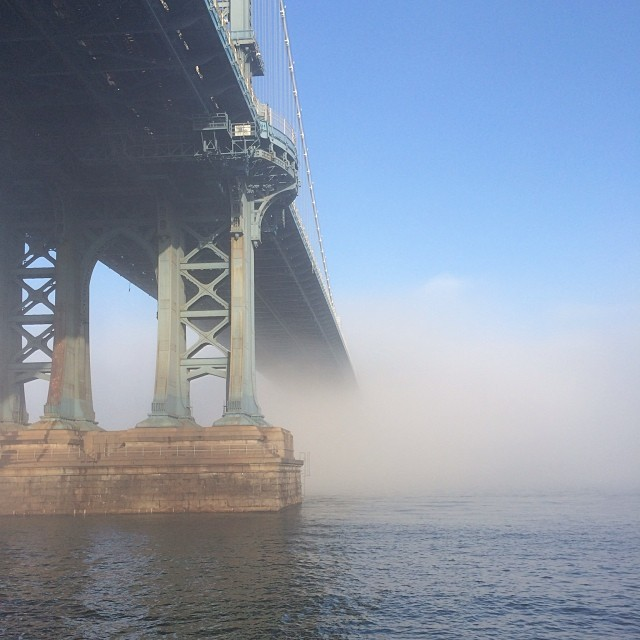
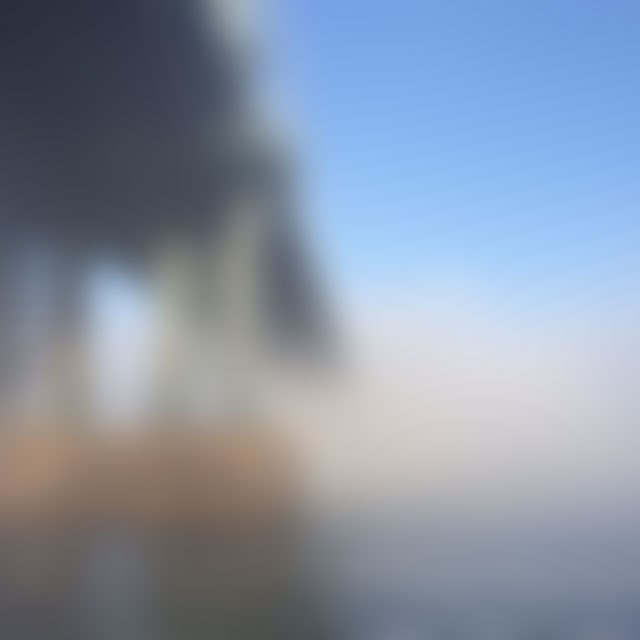
lowering image resolutions

diff --git a/css/main.css b/css/main.css
@@ -1,1 +1,1 @@
-article ,aside ,details ,figcaption ,figure ,footer ,header ,hgroup ,main ,nav ,section ,summary {display:block;}audio ,canvas ,video {display:inline-block;*display:inline;*zoom:1;}audio:not([controls]) {display:none;height:0;}[hidden] {display:none;}html {font-size:100%;-ms-text-size-adjust:100%;-webkit-text-size-adjust:100%;}html ,button ,input ,select ,textarea {font-family:sans-serif;}body {margin:0;}a:focus {outline:thin dotted;}a:active ,a:hover {outline:0;}h1 {font-size:2em;margin:0.67em 0;}h2 {font-size:1.5em;margin:0.83em 0;}h3 {font-size:1.17em;margin:1em 0;}h4 {font-size:1em;margin:1.33em 0;}h5 {font-size:0.83em;margin:1.67em 0;}h6 {font-size:0.67em;margin:2.33em 0;}abbr[title] {border-bottom:1px dotted;}b ,strong {font-weight:bold;}blockquote {margin:1em 40px;}dfn {font-style:italic;}hr {-moz-box-sizing:content-box;box-sizing:content-box;height:0;}mark {background:#ffff00;color:#000000;}p ,pre {margin:1em 0;}code ,kbd ,pre ,samp {font-family:monospace,serif;_font-family:'courier new',monospace;font-size:1em;}pre {white-space:pre;white-space:pre-wrap;word-wrap:break-word;}q {quotes:none;}q:before ,q:after {content:'';content:none;}small {font-size:80%;}sub ,sup {font-size:75%;line-height:0;position:relative;vertical-align:baseline;}sup {top:-0.5em;}sub {bottom:-0.25em;}dl ,menu ,ol ,ul {margin:1em 0;}dd {margin:0 0 0 40px;}menu ,ol ,ul {padding:0 0 0 40px;}nav ul ,nav ol {list-style:none;list-style-image:none;}img {border:0;-ms-interpolation-mode:bicubic;}svg:not(:root) {overflow:hidden;}figure {margin:0;}form {margin:0;}fieldset {border:1px solid #c0c0c0;margin:0 2px;padding:0.35em 0.625em 0.75em;}legend {border:0;padding:0;white-space:normal;*margin-left:-7px;}button ,input ,select ,textarea {font-size:100%;margin:0;vertical-align:baseline;*vertical-align:middle;}button ,input {line-height:normal;}button ,select {text-transform:none;}button ,html input[type="button"] ,input[type="reset"] ,input[type="submit"] {-webkit-appearance:button;cursor:pointer;*overflow:visible;}button[disabled] ,html input[disabled] {cursor:default;}input[type="checkbox"] ,input[type="radio"] {box-sizing:border-box;padding:0;*height:13px;*width:13px;}input[type="search"] {-webkit-appearance:textfield;-moz-box-sizing:content-box;-webkit-box-sizing:content-box;box-sizing:content-box;}input[type="search"]::-webkit-search-cancel-button ,input[type="search"]::-webkit-search-decoration {-webkit-appearance:none;}button::-moz-focus-inner ,input::-moz-focus-inner {border:0;padding:0;}textarea {overflow:auto;vertical-align:top;}table {border-collapse:collapse;border-spacing:0;}body {text-rendering:optimizespeed;font-family:"HelveticaNeue-UltraLight","Helvetica Neue UltraLight","Helvetica Neue",Helvetica,Arial,"Lucida Grande",sans-serif;}@font-face{font-family:"sams-fonts";src:url("../fonts/sams-fonts.eot");src:url("../fonts/sams-fonts.eot?#iefix") format("embedded-opentype"),url("../fonts/sams-fonts.woff") format("woff"),url("../fonts/sams-fonts.ttf") format("truetype"),url("../fonts/sams-fonts.svg#sams-fonts") format("svg");font-weight:normal;font-style:normal;}[data-icon]:before {font-family:"sams-fonts" !important;content:attr(data-icon);font-style:normal !important;font-weight:normal !important;font-variant:normal !important;text-transform:none !important;speak:none;line-height:1;-webkit-font-smoothing:antialiased;-moz-osx-font-smoothing:grayscale;}[class^="icon-"]:before ,[class*=" icon-"]:before {font-family:"sams-fonts" !important;font-style:normal !important;font-weight:normal !important;font-variant:normal !important;text-transform:none !important;speak:none;line-height:1;-webkit-font-smoothing:antialiased;-moz-osx-font-smoothing:grayscale;}.icon-social-rdio:before {content:"a";}.icon-soundcloud-1:before {content:"c";}.icon-social-path:before {content:"b";}.icon-social-facebook:before {content:"d";}.icon-lastfm:before {content:"f";}.icon-instagram:before {content:"g";}.icon-fontawesome-webfont:before {content:"i";}.icon-social-linkedin:before {content:"e";}.icon-chancetstorms:before {content:"j";}.icon-chanceflurries:before {content:"j";}.icon-chancerain:before {content:"k";}.icon-chancesleet:before {content:"l";}.icon-chancesnow:before {content:"m";}.icon-fog:before {content:"n";}.icon-hazy:before {content:"o";}.icon-tstorms:before {content:"B";}.icon-github:before {content:"h";}.icon-chanceeclipse:before {content:"j";}.icon-chanceflurries:before {content:"k";}.icon-chancerain:before {content:"l";}.icon-chancesleet:before {content:"m";}.icon-chancesnow:before {content:"n";}.icon-chancestorms:before {content:"o";}.icon-clear:before {content:"p";}.icon-cloudy:before {content:"q";}.icon-flurries:before {content:"r";}.icon-hazy:before {content:"s";}.icon-mostlycloudy:before {content:"t";}.icon-partlycloudy:before {content:"u";}.icon-partlysunny:before {content:"v";}.icon-snow:before {content:"w";}.icon-sunny:before {content:"x";}.icon-tstorms:before {content:"y";}.icon-wind:before {content:"z";}.icon-chanceeclipse:before {content:"j";}.icon-chanceflurries:before {content:"k";}.icon-chancerain:before {content:"l";}.icon-chancesleet:before {content:"m";}.icon-chancesnow:before {content:"n";}.icon-chancestorms:before {content:"o";}.icon-clear:before {content:"p";}.icon-cloudy:before {content:"q";}.icon-flurries:before {content:"r";}.icon-hazy:before {content:"s";}.icon-mostlycloudy:before {content:"t";}.icon-partlycloudy:before {content:"u";}.icon-partlysunny:before {content:"v";}.icon-snow:before {content:"w";}.icon-sunny:before {content:"x";}.icon-tstorms:before {content:"y";}.icon-wind:before {content:"z";}.icon-facebook:before {content:"A";}.icon-github-1:before {content:"B";}.icon-instagram-1:before {content:"C";}.icon-lastfm-1:before {content:"D";}.icon-soundcloud:before {content:"E";}.icon-twitter:before {content:"F";}body {background-color:#000000;color:#b9b9b9;font-weight:100;}* {-webkit-box-sizing:border-box;-moz-box-sizing:border-box;box-sizing:border-box;}a {text-decoration:none;color:#d9d9d9;}a:hover ,a:focus {text-decoration:underline;}#layout {padding-left:33%;position:relative;}.canvas ,.process {background:url('../img/5.png') no-repeat center center fixed;-webkit-background-size:cover;-moz-background-size:cover;-o-background-size:cover;background-size:cover;height:100%;left:0;opacity:0.5;position:absolute;top:0;width:100%;z-index:-1;}.process {background:none;}.sidebar {position:fixed;top:0;bottom:0;width:33%;margin-left:-33%;border-right:8px solid #222222;}.header {margin:40% 2em 0;text-align:right;}.brand-title ,.brand-tagline {margin-right:0.75em;}.brand-title {font-size:72px;font-weight:100;}.nav-list {display:inline-block;list-style:none;margin:0;padding:10px 0 0;}.nav-list:hover .nav-item ,.nav-list:active .nav-item {-webkit-transform:scale(0.9);-moz-transform:scale(0.9);-ms-transform:scale(0.9);-o-transform:scale(0.9);transform:scale(0.9);opacity:0.5;}.nav-item {display:inline-block;*display:inline;zoom:1;-webkit-transition-duration:0.2s;-moz-transition-duration:0.2s;-o-transition-duration:0.2s;transition-duration:0.2s;}.nav-item a {color:#cacaca;display:block;font-size:72px;height:84px;width:84px;-webkit-transition-duration:0.2s;-moz-transition-duration:0.2s;-o-transition-duration:0.2s;transition-duration:0.2s;opacity:0.5;}.nav-item a span {display:block;text-indent:-9999px;}.nav-item a:hover ,.nav-item a:focus {text-decoration:none;-webkit-transform:scale(1.3);-moz-transform:scale(1.3);-ms-transform:scale(1.3);-o-transform:scale(1.3);transform:scale(1.3);color:#ffffff;opacity:1;}.content {margin:20% 0 0;padding:0 5em;}.splash {font-size:23px;line-height:1.35em;margin-top:3em;width:600px;}.splash p {margin:0 0 0.5em 0;}.weather {position:absolute;top:2em;right:2em;}.weather span {position:relative;top:0.25em;right:0.25em;}[class*="icon"] {font-size:2em;position:relative;top:12px;right:14px;}footer {position:absolute;bottom:0;padding:0 5em 2em;margin-left:33%;}@media only screen and (max-width: 1024px){.header {margin-top:42%;}.brand-title {font-size:56px;}.nav-item {width:16%;}.nav-item a {font-size:62px;width:auto;}.splash {margin-top:2em;width:auto;}}@media only screen and (max-width: 768px){.brand-title {margin-right:auto;}.content {margin-top:10%;}.sidebar {border-right:0;width:100%;position:relative;margin:0;}.nav-list {text-align:center;}.header {text-align:center;top:auto;margin:3em auto;position:static;}#layout {padding:0;}footer {bottom:auto;margin-left:auto;padding-top:3em;}}@media only screen and (max-width: 480px){.content {padding:2em 1em 0;}}
+article ,aside ,details ,figcaption ,figure ,footer ,header ,hgroup ,main ,nav ,section ,summary {display:block;}audio ,canvas ,video {display:inline-block;*display:inline;*zoom:1;}audio:not([controls]) {display:none;height:0;}[hidden] {display:none;}html {font-size:100%;-ms-text-size-adjust:100%;-webkit-text-size-adjust:100%;}html ,button ,input ,select ,textarea {font-family:sans-serif;}body {margin:0;}a:focus {outline:thin dotted;}a:active ,a:hover {outline:0;}h1 {font-size:2em;margin:0.67em 0;}h2 {font-size:1.5em;margin:0.83em 0;}h3 {font-size:1.17em;margin:1em 0;}h4 {font-size:1em;margin:1.33em 0;}h5 {font-size:0.83em;margin:1.67em 0;}h6 {font-size:0.67em;margin:2.33em 0;}abbr[title] {border-bottom:1px dotted;}b ,strong {font-weight:bold;}blockquote {margin:1em 40px;}dfn {font-style:italic;}hr {-moz-box-sizing:content-box;box-sizing:content-box;height:0;}mark {background:#ffff00;color:#000000;}p ,pre {margin:1em 0;}code ,kbd ,pre ,samp {font-family:monospace,serif;_font-family:'courier new',monospace;font-size:1em;}pre {white-space:pre;white-space:pre-wrap;word-wrap:break-word;}q {quotes:none;}q:before ,q:after {content:'';content:none;}small {font-size:80%;}sub ,sup {font-size:75%;line-height:0;position:relative;vertical-align:baseline;}sup {top:-0.5em;}sub {bottom:-0.25em;}dl ,menu ,ol ,ul {margin:1em 0;}dd {margin:0 0 0 40px;}menu ,ol ,ul {padding:0 0 0 40px;}nav ul ,nav ol {list-style:none;list-style-image:none;}img {border:0;-ms-interpolation-mode:bicubic;}svg:not(:root) {overflow:hidden;}figure {margin:0;}form {margin:0;}fieldset {border:1px solid #c0c0c0;margin:0 2px;padding:0.35em 0.625em 0.75em;}legend {border:0;padding:0;white-space:normal;*margin-left:-7px;}button ,input ,select ,textarea {font-size:100%;margin:0;vertical-align:baseline;*vertical-align:middle;}button ,input {line-height:normal;}button ,select {text-transform:none;}button ,html input[type="button"] ,input[type="reset"] ,input[type="submit"] {-webkit-appearance:button;cursor:pointer;*overflow:visible;}button[disabled] ,html input[disabled] {cursor:default;}input[type="checkbox"] ,input[type="radio"] {box-sizing:border-box;padding:0;*height:13px;*width:13px;}input[type="search"] {-webkit-appearance:textfield;-moz-box-sizing:content-box;-webkit-box-sizing:content-box;box-sizing:content-box;}input[type="search"]::-webkit-search-cancel-button ,input[type="search"]::-webkit-search-decoration {-webkit-appearance:none;}button::-moz-focus-inner ,input::-moz-focus-inner {border:0;padding:0;}textarea {overflow:auto;vertical-align:top;}table {border-collapse:collapse;border-spacing:0;}body {text-rendering:optimizespeed;font-family:"HelveticaNeue-UltraLight","Helvetica Neue UltraLight","Helvetica Neue",Helvetica,Arial,"Lucida Grande",sans-serif;}@font-face{font-family:"sams-fonts";src:url("../fonts/sams-fonts.eot");src:url("../fonts/sams-fonts.eot?#iefix") format("embedded-opentype"),url("../fonts/sams-fonts.woff") format("woff"),url("../fonts/sams-fonts.ttf") format("truetype"),url("../fonts/sams-fonts.svg#sams-fonts") format("svg");font-weight:normal;font-style:normal;}[data-icon]:before {font-family:"sams-fonts" !important;content:attr(data-icon);font-style:normal !important;font-weight:normal !important;font-variant:normal !important;text-transform:none !important;speak:none;line-height:1;-webkit-font-smoothing:antialiased;-moz-osx-font-smoothing:grayscale;}[class^="icon-"]:before ,[class*=" icon-"]:before {font-family:"sams-fonts" !important;font-style:normal !important;font-weight:normal !important;font-variant:normal !important;text-transform:none !important;speak:none;line-height:1;-webkit-font-smoothing:antialiased;-moz-osx-font-smoothing:grayscale;}.icon-social-rdio:before {content:"a";}.icon-soundcloud-1:before {content:"c";}.icon-social-path:before {content:"b";}.icon-social-facebook:before {content:"d";}.icon-lastfm:before {content:"f";}.icon-instagram:before {content:"g";}.icon-fontawesome-webfont:before {content:"i";}.icon-social-linkedin:before {content:"e";}.icon-chancetstorms:before {content:"j";}.icon-chanceflurries:before {content:"j";}.icon-chancerain:before {content:"k";}.icon-chancesleet:before {content:"l";}.icon-chancesnow:before {content:"m";}.icon-fog:before {content:"n";}.icon-hazy:before {content:"o";}.icon-tstorms:before {content:"B";}.icon-github:before {content:"h";}.icon-chanceeclipse:before {content:"j";}.icon-chanceflurries:before {content:"k";}.icon-chancerain:before {content:"l";}.icon-chancesleet:before {content:"m";}.icon-chancesnow:before {content:"n";}.icon-chancestorms:before {content:"o";}.icon-clear:before {content:"p";}.icon-cloudy:before {content:"q";}.icon-flurries:before {content:"r";}.icon-hazy:before {content:"s";}.icon-mostlycloudy:before {content:"t";}.icon-partlycloudy:before {content:"u";}.icon-partlysunny:before {content:"v";}.icon-snow:before {content:"w";}.icon-sunny:before {content:"x";}.icon-tstorms:before {content:"y";}.icon-wind:before {content:"z";}.icon-chanceeclipse:before {content:"j";}.icon-chanceflurries:before {content:"k";}.icon-chancerain:before {content:"l";}.icon-chancesleet:before {content:"m";}.icon-chancesnow:before {content:"n";}.icon-chancestorms:before {content:"o";}.icon-clear:before {content:"p";}.icon-cloudy:before {content:"q";}.icon-flurries:before {content:"r";}.icon-hazy:before {content:"s";}.icon-mostlycloudy:before {content:"t";}.icon-partlycloudy:before {content:"u";}.icon-partlysunny:before {content:"v";}.icon-snow:before {content:"w";}.icon-sunny:before {content:"x";}.icon-tstorms:before {content:"y";}.icon-wind:before {content:"z";}.icon-facebook:before {content:"A";}.icon-github-1:before {content:"B";}.icon-instagram-1:before {content:"C";}.icon-lastfm-1:before {content:"D";}.icon-soundcloud:before {content:"E";}.icon-twitter:before {content:"F";}body {background-color:#000000;color:#b9b9b9;font-weight:100;}* {-webkit-box-sizing:border-box;-moz-box-sizing:border-box;box-sizing:border-box;}a {text-decoration:none;color:#d9d9d9;}a:hover ,a:focus {text-decoration:underline;}#layout {padding-left:33%;position:relative;}.canvas ,.process {background:url('../img/5.jpg') no-repeat center center fixed;-webkit-background-size:cover;-moz-background-size:cover;-o-background-size:cover;background-size:cover;height:100%;left:0;opacity:0.5;position:absolute;top:0;width:100%;z-index:-1;}.process {background:none;}.sidebar {position:fixed;top:0;bottom:0;width:33%;margin-left:-33%;border-right:8px solid #222222;}.header {margin:40% 2em 0;text-align:right;}.brand-title ,.brand-tagline {margin-right:0.75em;}.brand-title {font-size:72px;font-weight:100;}.nav-list {display:inline-block;list-style:none;margin:0;padding:10px 0 0;}.nav-list:hover .nav-item ,.nav-list:active .nav-item {-webkit-transform:scale(0.9);-moz-transform:scale(0.9);-ms-transform:scale(0.9);-o-transform:scale(0.9);transform:scale(0.9);opacity:0.5;}.nav-item {display:inline-block;*display:inline;zoom:1;-webkit-transition-duration:0.2s;-moz-transition-duration:0.2s;-o-transition-duration:0.2s;transition-duration:0.2s;}.nav-item a {color:#cacaca;display:block;font-size:72px;height:84px;width:84px;-webkit-transition-duration:0.2s;-moz-transition-duration:0.2s;-o-transition-duration:0.2s;transition-duration:0.2s;opacity:0.5;}.nav-item a span {display:block;text-indent:-9999px;}.nav-item a:hover ,.nav-item a:focus {text-decoration:none;-webkit-transform:scale(1.3);-moz-transform:scale(1.3);-ms-transform:scale(1.3);-o-transform:scale(1.3);transform:scale(1.3);color:#ffffff;opacity:1;}.content {margin:20% 0 0;padding:0 5em;}.splash {font-size:23px;line-height:1.35em;margin-top:3em;width:600px;}.splash p {margin:0 0 0.5em 0;}.weather {position:absolute;top:2em;right:2em;}.weather span {position:relative;top:0.25em;right:0.25em;}[class*="icon"] {font-size:2em;position:relative;top:12px;right:14px;}footer {position:absolute;bottom:0;padding:0 5em 2em;margin-left:33%;}@media only screen and (max-width: 1024px){.header {margin-top:42%;}.brand-title {font-size:56px;}.nav-item {width:16%;}.nav-item a {font-size:62px;width:auto;}.splash {margin-top:2em;width:auto;}}@media only screen and (max-width: 768px){.brand-title {margin-right:auto;}.content {margin-top:10%;}.sidebar {border-right:0;width:100%;position:relative;margin:0;}.nav-list {text-align:center;}.header {text-align:center;top:auto;margin:3em auto;position:static;}#layout {padding:0;}footer {bottom:auto;margin-left:auto;padding-top:3em;}}@media only screen and (max-width: 480px){.content {padding:2em 1em 0;}}

diff --git a/index.html b/index.html
@@ -1,4 +1,4 @@
 <!DOCTYPE html><html><head><meta charset="utf-8"><meta http-equiv="X-UA-Compatible" content="IE=edge,chrome=1"><title>Sam Ageloff » Web Portal</title><meta name="description" content="Web Engineer, Musician, Cat Dad"><meta name="viewport" content="width=device-width, initial-scale=1.0"><link rel="stylesheet" href="css/main.css"><link rel="author" href="humans.txt"></head><body><!--[if lt IE 9]>
 <p class="browsehappy">Oh boy. Yea, your browser is pretty old.</p>
 <p><a href="http://browsehappy.com/">Upgrade your browser</a> to improve your experience.</p>
-<![endif]--><div class="weather"><span></span></div><div id="layout"><div class="sidebar"><header class="header"><h1 class="brand-title">samageloff</h1></header></div><div class="content"><nav class="nav"><ul class="nav-list"><li class="nav-item"><a href="http://www.soundclound.com/samageloff" data-icon="c" title="Soundcloud" target="_blank" class="soundcloud"></a></li><li class="nav-item"><a href="http://www.instagram.com/samageloff" data-icon="g" title="Instagram" target="_blank" class="instagram"></a></li><li class="nav-item"><a href="http://www.rdio.com/people/samageloff/" data-icon="a" title="Rdio" target="_blank" class="rdio"></a></li><li class="nav-item"><a href="http://www.facebook.com/ageloff" data-icon="d" title="Facebook" target="_blank" class="facebook"></a></li><li class="nav-item"><a href="http://www.github.com/samagelof" data-icon="h" title="Github" target="_blank" class="github"></a></li><li class="nav-item"><a href="http://www.twitter.com/samageloff" data-icon="i" title="Twitter" target="_blank" class="twitter"></a></li></ul></nav><div class="splash"><p>Hi there.</p><p>Thanks for stopping by.</p><p>I currently make websites for <a href="http://www.hugeinc.com" target="_blank">Huge</a>. I also do work with an awesome startup called <a href="http://www.mixbridge.com" target="_blank">Mixbridge</a>, and I make <a href="http://www.soundcloud.com/samageloff" target="_blank">music</a>. I live with my lovely and talented <a href="http://www.rachelannawalker.com" target="_blank">wife</a> and our cat Big Simon, in Brooklyn.</p></div></div></div><div class="canvas"></div><footer><small>Made with <a href="http://harpjs.com/" target="_blank">Harp</a>, hosted on <a href="http://pages.github.com/" target="_blank">Github</a>, icons by <a href="http://fontastic.me" target="_blank">fontastic.me</a>.</small></footer><script src="js/vendor/mustache.js"></script><script src="js/main.js"></script><script>(function(i,s,o,g,r,a,m){i['GoogleAnalyticsObject']=r;i[r]=i[r]||function(){(i[r].q=i[r].q||[]).push(arguments)},i[r].l=1*new Date();a=s.createElement(o),m=s.getElementsByTagName(o)[0];a.async=1;a.src=g;m.parentNode.insertBefore(a,m)})(window,document,'script','//www.google-analytics.com/analytics.js','ga');ga('create', 'UA-279912-1', 'samuelageloff.com');ga('send', 'pageview');</script></body></html>
+<![endif]--><div class="weather"><span></span></div><div id="layout"><div class="sidebar"><header class="header"><h1 class="brand-title">samageloff</h1></header></div><div class="content"><nav class="nav"><ul class="nav-list"><li class="nav-item"><a href="http://www.soundclound.com/samageloff" data-icon="c" title="Soundcloud" target="_blank" class="soundcloud"></a></li><li class="nav-item"><a href="http://www.instagram.com/samageloff" data-icon="g" title="Instagram" target="_blank" class="instagram"></a></li><li class="nav-item"><a href="http://www.rdio.com/people/samageloff/" data-icon="a" title="Rdio" target="_blank" class="rdio"></a></li><li class="nav-item"><a href="http://www.facebook.com/ageloff" data-icon="d" title="Facebook" target="_blank" class="facebook"></a></li><li class="nav-item"><a href="http://www.github.com/samageloff" data-icon="h" title="Github" target="_blank" class="github"></a></li><li class="nav-item"><a href="http://www.twitter.com/samageloff" data-icon="i" title="Twitter" target="_blank" class="twitter"></a></li></ul></nav><div class="splash"><p>Hi there.</p><p>Thanks for stopping by.</p><p>I currently make websites for <a href="http://www.hugeinc.com" target="_blank">Huge</a>. I also do work with an awesome startup called <a href="http://www.mixbridge.com" target="_blank">Mixbridge</a>, and I make <a href="http://www.soundcloud.com/samageloff" target="_blank">music</a>. I live with my lovely and talented <a href="http://www.rachelannawalker.com" target="_blank">wife</a> and our cat Big Simon, in Brooklyn.</p></div></div></div><div class="canvas"></div><footer><small>Made with <a href="http://harpjs.com/" target="_blank">Harp</a>, hosted on <a href="http://pages.github.com/" target="_blank">Github</a>, icons by <a href="http://fontastic.me" target="_blank">fontastic.me</a>.</small></footer><script src="js/vendor/mustache.js"></script><script src="js/main.js"></script><script>(function(i,s,o,g,r,a,m){i['GoogleAnalyticsObject']=r;i[r]=i[r]||function(){(i[r].q=i[r].q||[]).push(arguments)},i[r].l=1*new Date();a=s.createElement(o),m=s.getElementsByTagName(o)[0];a.async=1;a.src=g;m.parentNode.insertBefore(a,m)})(window,document,'script','//www.google-analytics.com/analytics.js','ga');ga('create', 'UA-279912-1', 'samuelageloff.com');ga('send', 'pageview');</script></body></html>
